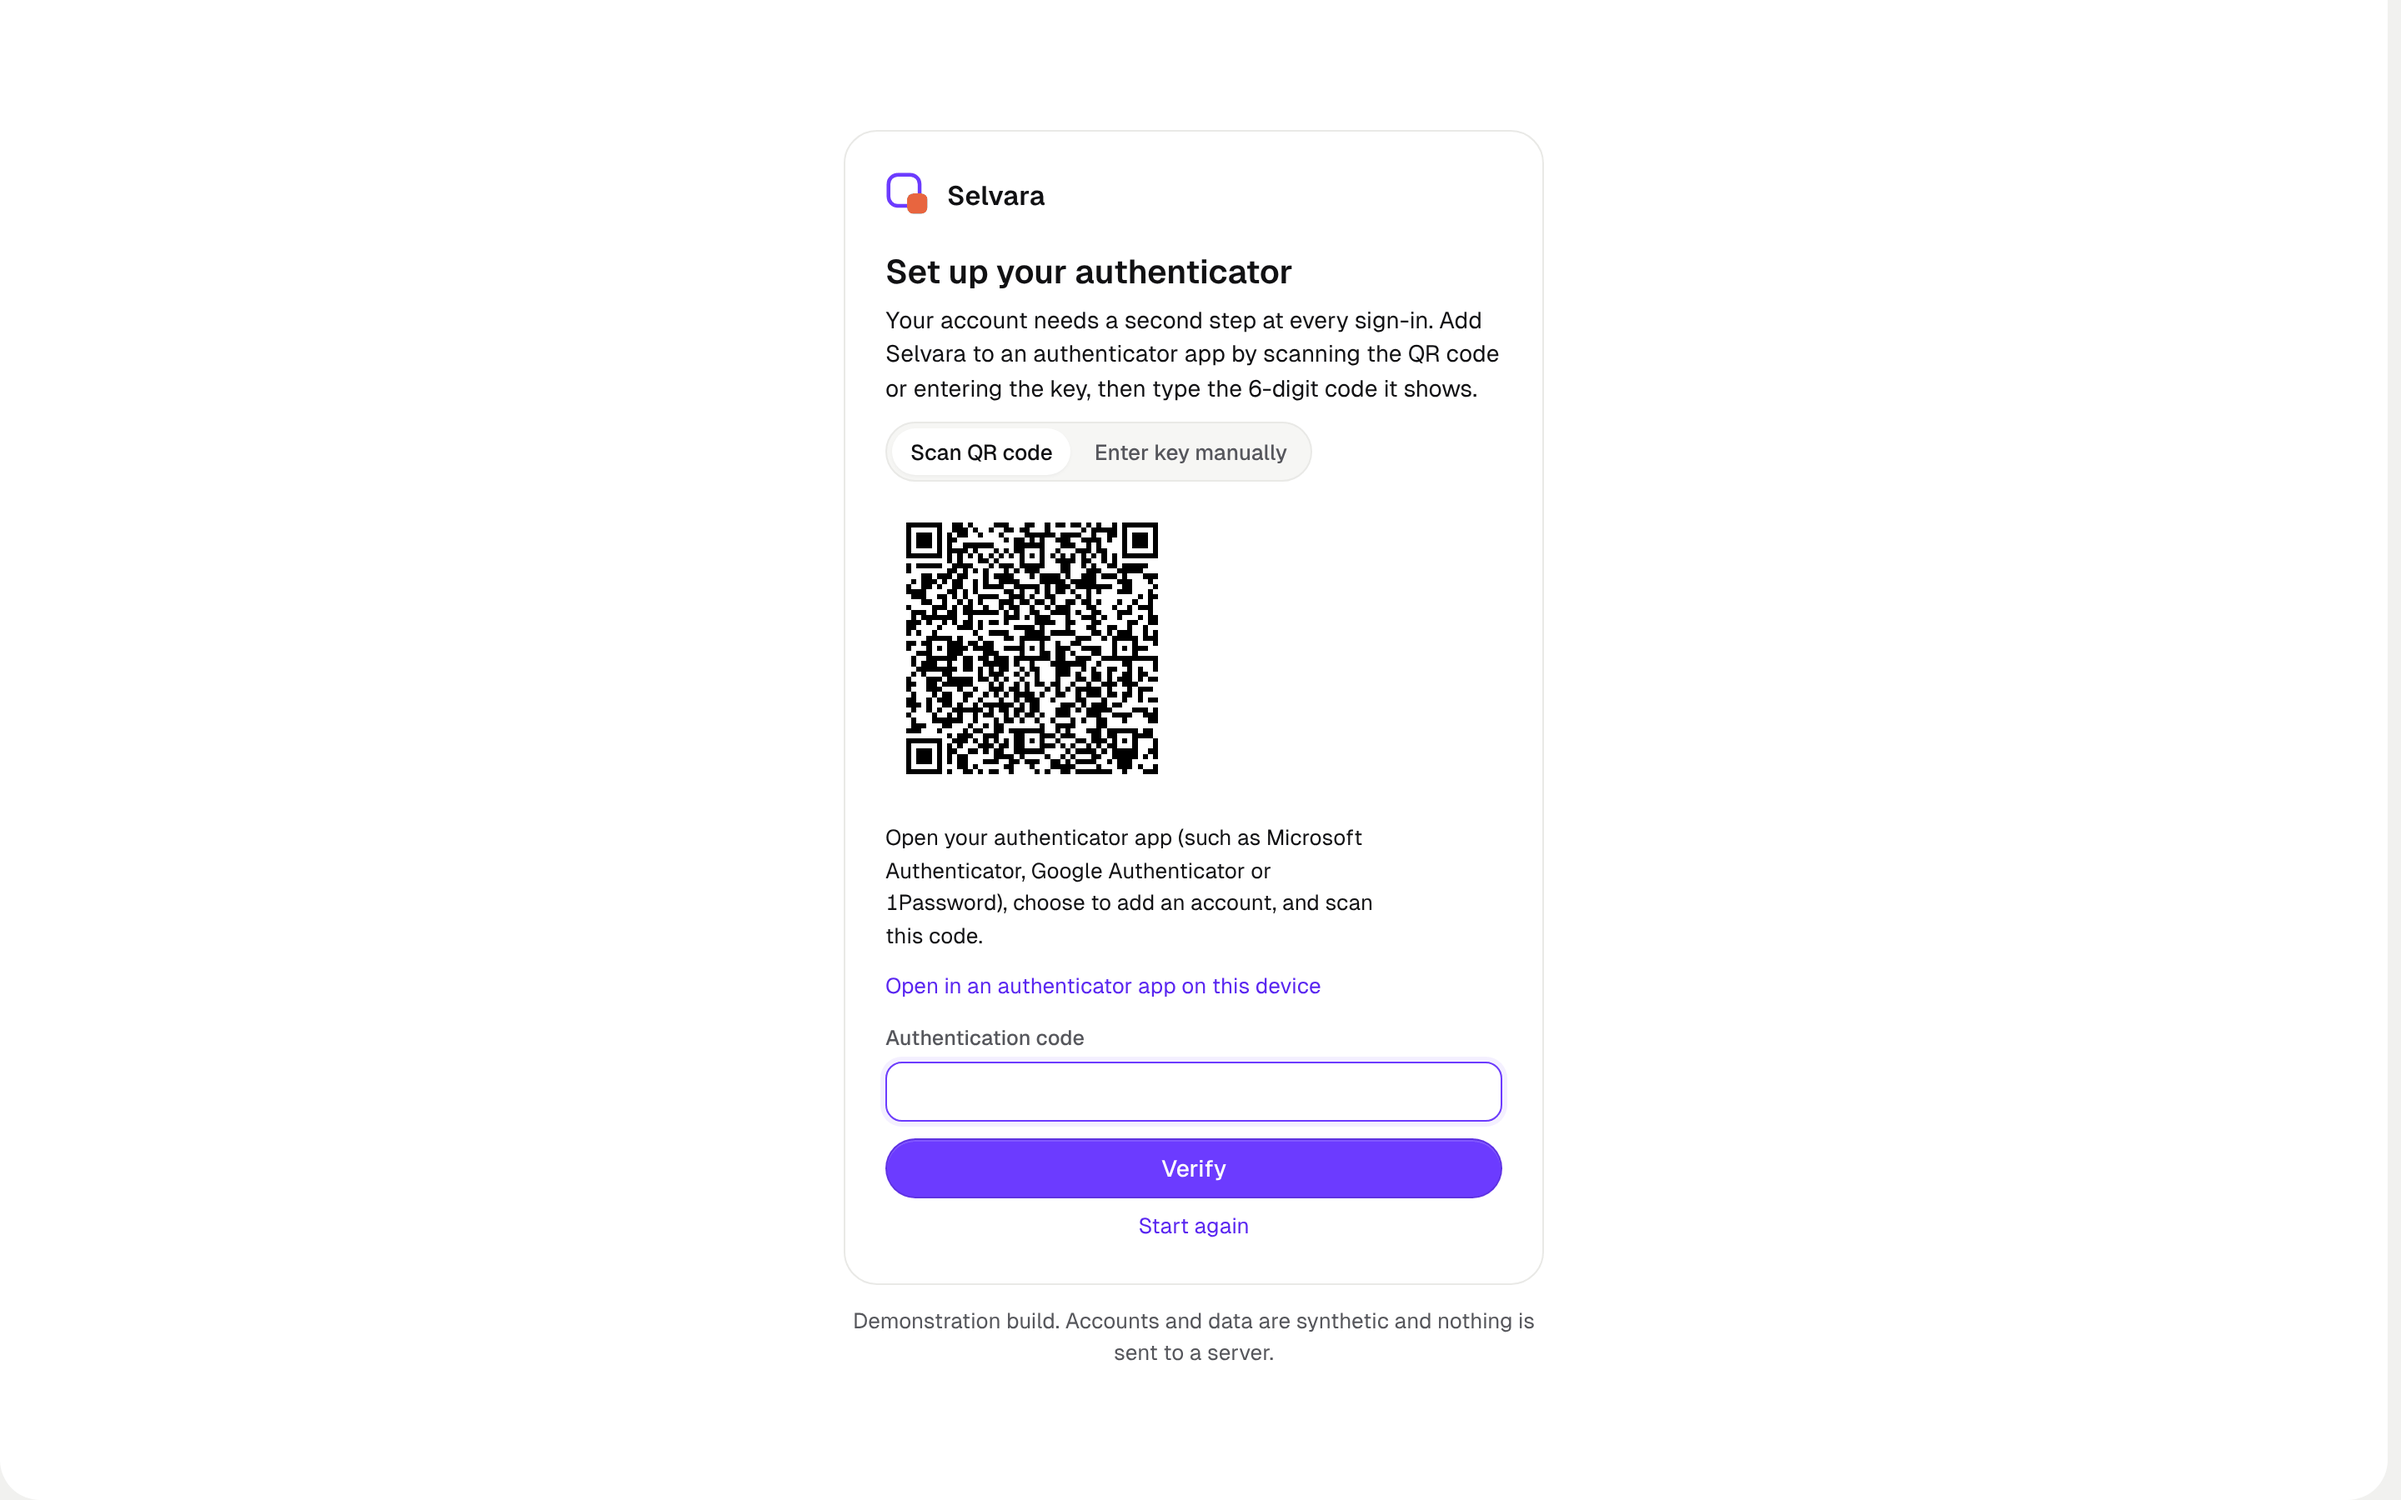
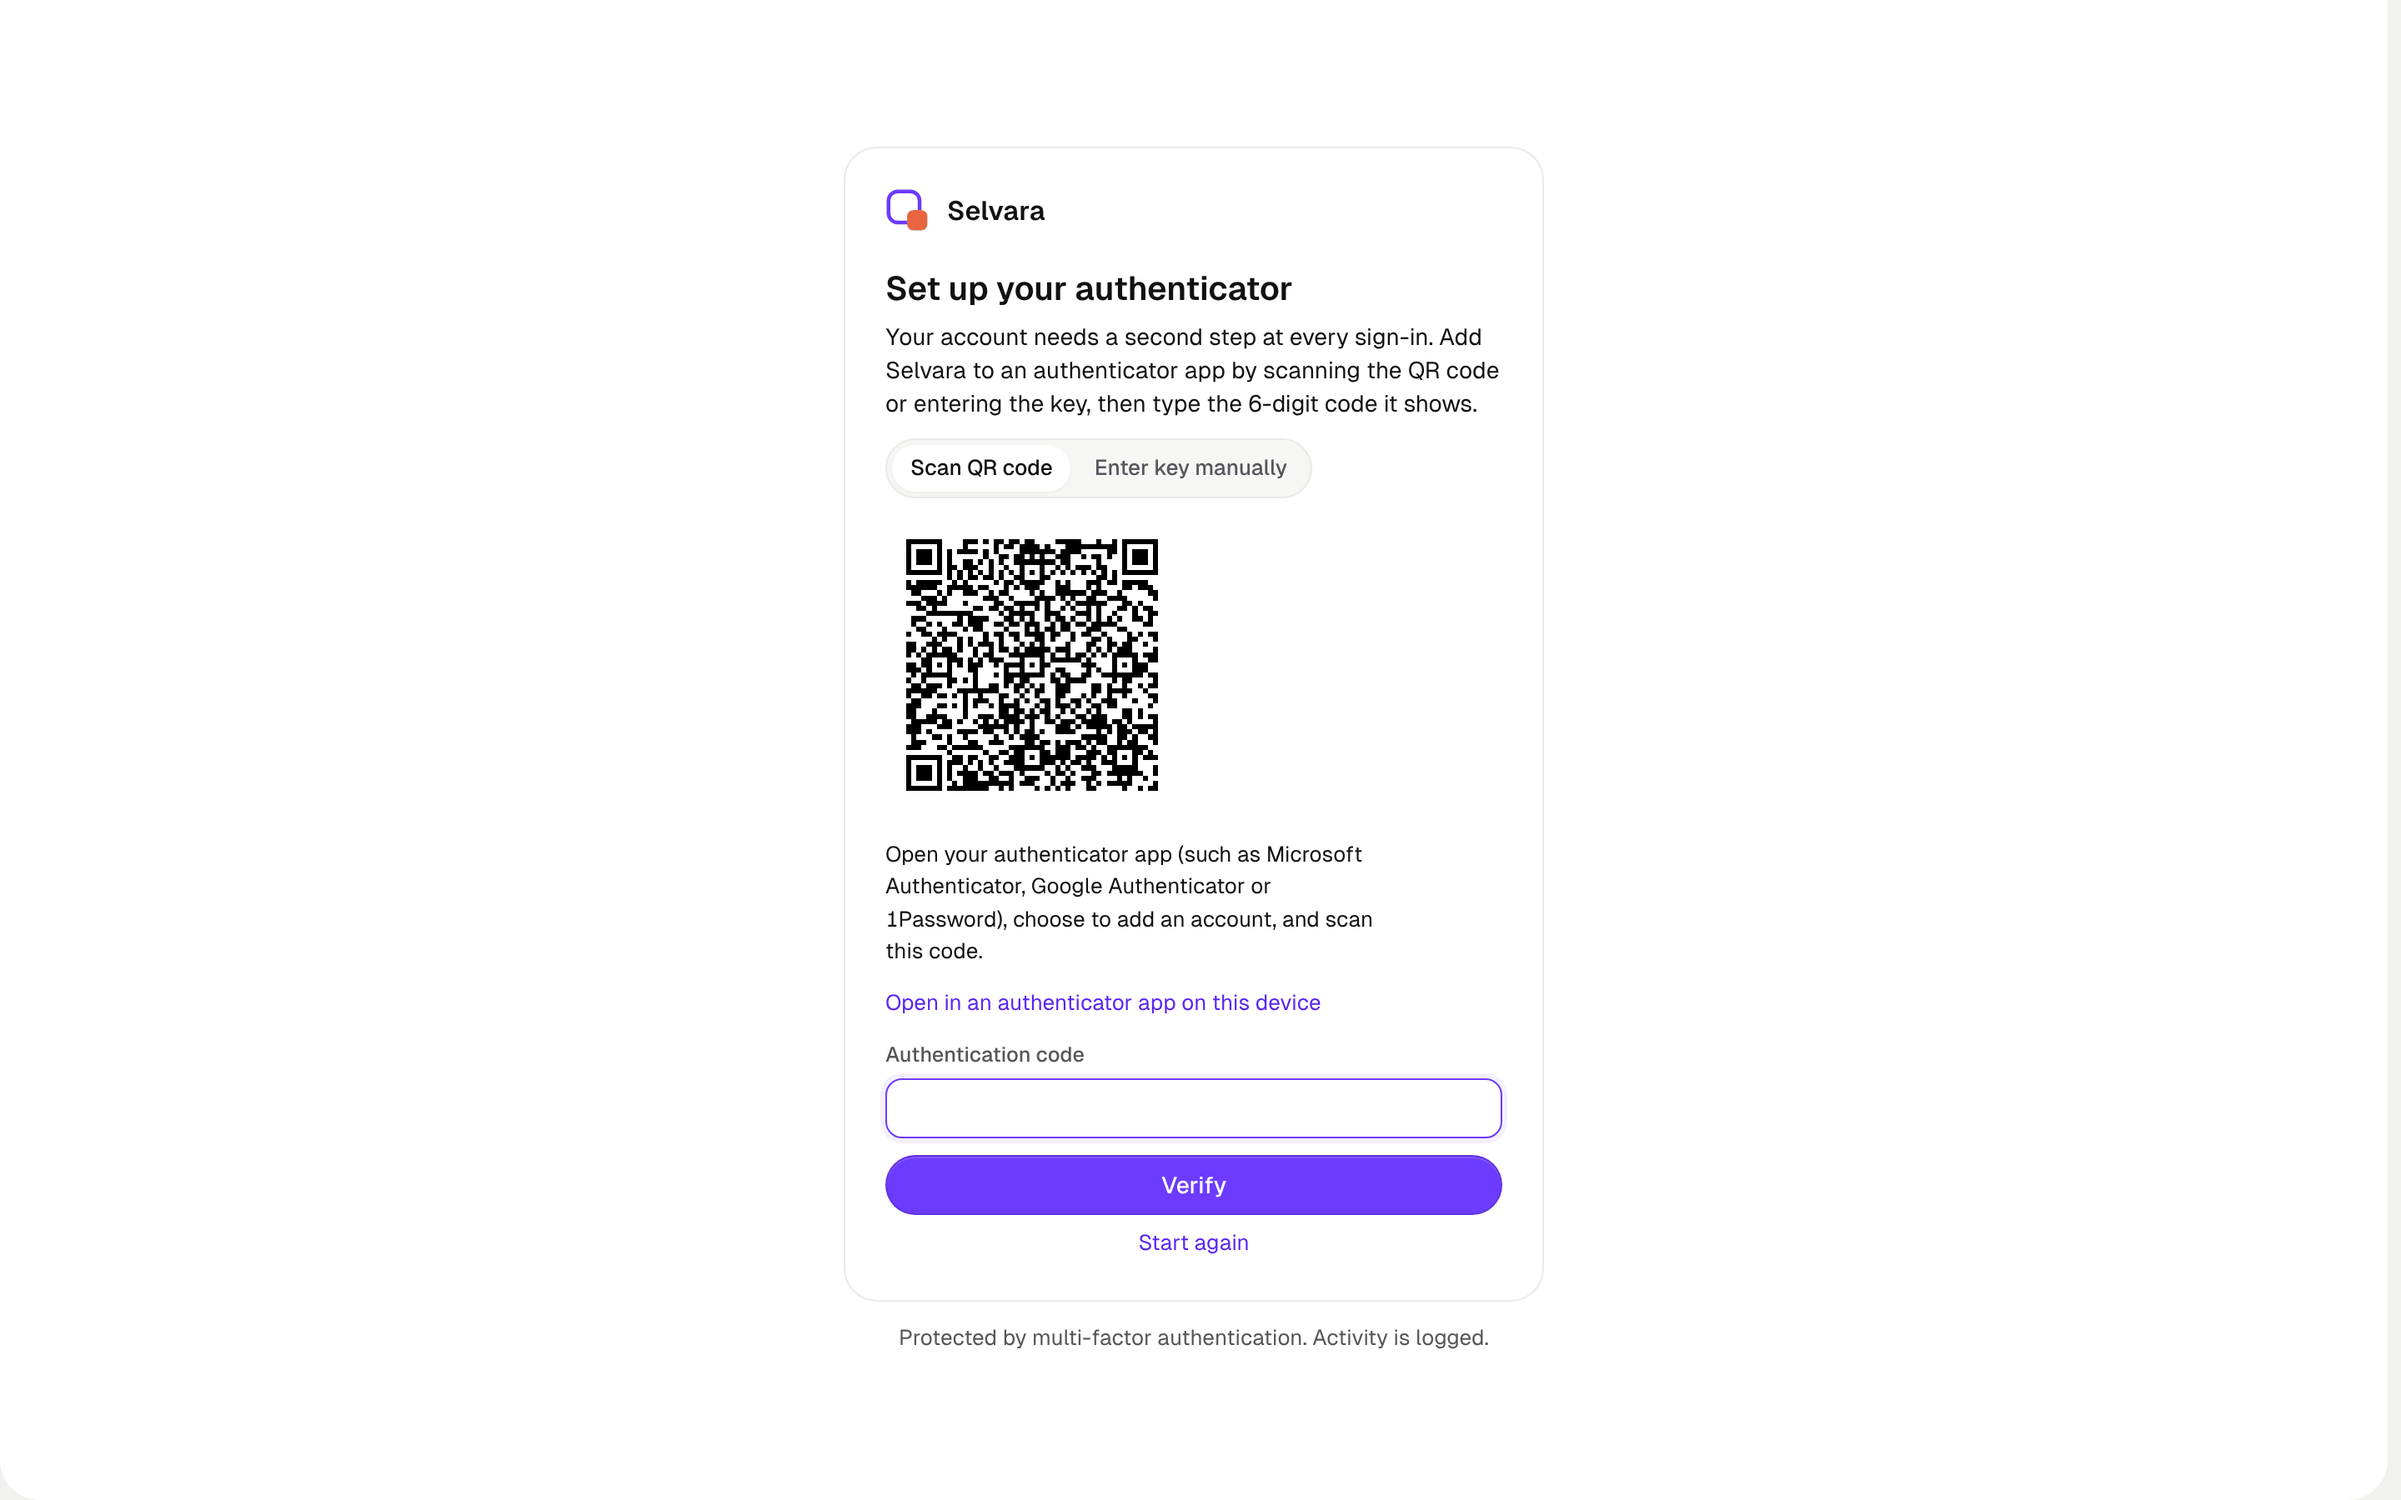
docs(readme): production-build screenshots for sign-in; company admin instead of Admin Console (#116)
* docs: accept ADR-021 and R-66; record deputy delegation in SOD_MATRIX

Owner decision OD-18 (2026-11-24): flexible platform roles accepted, risk
R-66 accepted with compensating controls, deputy approver delegation
recorded in SOD_MATRIX section 16. Closes re-assessment finding RA2-01.

Claude-Session: https://claude.ai/code/session_01PUooRSgodkPweFKnFCQq1H

* docs(backend-v2): record owner decisions OD-19 to OD-24 and vendor-fact results

- ADR-002 to ADR-013 and ADR-015 to ADR-020 accepted (OD-19, DU-37 closed)
- PITR option A; H-DR-H ratified; H-DR-G kept as fallback (OD-20, DU-02 closed)
- Budget values, full scope, staffing and start date recorded; R-05 accepted (OD-21, budget query open)
- Roadmap and tracking calendar with ISO 27001/27701 dates (OD-22)
- SLA 99.0%, held as a versioned setting, with maintenance notice, window and caps (OD-23, ADR-020 amended)
- Legal acceptance deferred (OD-24)
- VC-02, 13, 14, 16, 19, 21, 22 results recorded; ADR-003/004/013 effects; new risk R-67
- Readiness gate section 6: still No-Go

Claude-Session: https://claude.ai/code/session_01PUooRSgodkPweFKnFCQq1H

* docs(backend-v2): record owner decision OD-25 (Batch A of open DU items)

Claude-Session: https://claude.ai/code/session_01PUooRSgodkPweFKnFCQq1H

* fix(security): response guard on every API response; invitation links by email only

- server/responseGuard.ts: removes credential fields and redacts secret-looking values from every
[…]

diff --git a/README.md b/README.md
@@ -67,7 +67,7 @@ It is designed with **regulated sectors in mind** (banks and financial instituti
 
 ## Screenshots
 
-All screenshots are from the demonstration build of v0.3.1 (24 Nov 2026) and use synthetic data.
+All screenshots use synthetic data (v0.3.1, 24 Nov 2026). The workspace screens are from the demonstration build. The sign-in, account security and company admin screens are from the **production build** (`API_MODE=http`: real server API, no demo accounts), run with synthetic people.
 
 ### Workspace
 
@@ -77,19 +77,20 @@ All screenshots are from the demonstration build of v0.3.1 (24 Nov 2026) and use
 | ![Audits](docs/screenshots/04-audit-engagement.png) **Audits:** engagements by stage, open findings and outstanding evidence requests | ![Trust Center](docs/screenshots/05-trust-center.png) **Trust Center:** what visitors can see, resources on request or public, access requests |
 | ![Policies](docs/screenshots/06-policies.png) **Policies:** library and review workflow with versions, owners and review dates | ![AI governance](docs/screenshots/15-ai-governance.png) **AI governance:** model inventory with EU AI Act classification, guardrails and impact assessments |
 | ![Settings and integrations](docs/screenshots/11-settings-integrations.png) **Settings:** one place for company settings, connections, security and your account | ![Help centre](docs/screenshots/12-help-centre.png) **Help centre:** searchable guides, and questions to Selvara support |
+| ![Vendor portal](docs/screenshots/09-vendor-portal.png) **External vendor assessment portal:** standalone, verified entry with email, code and a second factor | ![Dark theme](docs/screenshots/08-overview-dark.png) **Dark theme** (light, dark and auto are supported) |
 
-### Sign-in and account security
-
-| | |
-|---|---|
-| ![Authenticator set-up](docs/screenshots/10-authenticator-setup.png) **Authenticator set-up:** scan the QR code or enter the key manually; the QR is drawn in the browser | ![Vendor portal](docs/screenshots/09-vendor-portal.png) **External vendor assessment portal:** standalone, verified entry with email, code and a second factor |
-
-### Admin Console (platform operators)
+### Sign-in and account security (production build)
 
 | | |
 |---|---|
-| ![MFA resets](docs/screenshots/07-admin-mfa-four-eyes.png) **Four-eyes MFA resets:** read-only until the approver has an elevated session; the requester can never approve | ![Exchange rates](docs/screenshots/13-exchange-rates.png) **Exchange Rates & Tax:** live rates per currency with *Last updated*, held changes need a decision |
-| ![Platform security](docs/screenshots/14-platform-security.png) **Platform Security:** blocked sign-in addresses, address reputation and the password baseline, each rule marked in place or planned | ![Dark theme](docs/screenshots/08-overview-dark.png) **Dark theme** (light, dark and auto are supported) |
+| ![Sign in](docs/screenshots/16-sign-in.png) **Sign in:** work email and password, generic errors, request to join; no demo accounts in production | ![Authenticator set-up](docs/screenshots/10-authenticator-setup.png) **First sign-in:** add an authenticator app by scanning the QR code or entering the key; the QR is drawn in the browser |
+| ![Your account](docs/screenshots/17-your-account.png) **Your account:** sign-in history, two authenticator apps (replace or remove), recovery codes, active sessions and password | |
+
+### Company admin (production build)
+
+| | |
+|---|---|
+| ![Team and Rules](docs/screenshots/18-team-rules.png) **Team & Rules:** members and roles, requests to join with approve or reject, invitations by email, sign-in protection | ![Approvals waiting](docs/screenshots/19-team-approvals.png) **Approvals waiting:** granting admin or owner needs a second admin; nobody approves their own request or one about themselves |
 
 ## Key features
 

diff --git a/CHANGELOG.md b/CHANGELOG.md
@@ -7,6 +7,7 @@ All notable changes are recorded here. The format follows [Keep a Changelog](htt
 ### Changed
 - Staging moves to a `staging` branch: pushing a commit that is already on `main` to it deploys two Vercel previews, **Staging demo** (demonstration build, for demos) and **Staging live** (production build on the staging Supabase project, off until `STAGING_LIVE_ENABLED=true`). A commit that is not on `main` deploys nothing. A merge to `main` runs the gates only. Production is unchanged (signed tags).
 - README refreshed for v0.3.1: 15 new screenshots (6 new screens: authenticator set-up, Settings, Help centre, Exchange Rates, Platform Security, AI governance), account security and layout features, staging previews, project status, roadmap and the documentation index.
+- README screenshots: sign-in, first-sign-in authenticator set-up and Your account are now from the production build (synthetic people); the Admin Console screenshots are replaced by company admin ones (Team & Rules, approvals waiting).
 - Docs: README and CONTROLS no longer say most modules are browser-only; EX-04 records the 2026-11-24 re-assessment of the Vercel CLI advisories.
 
 ### Fixed
